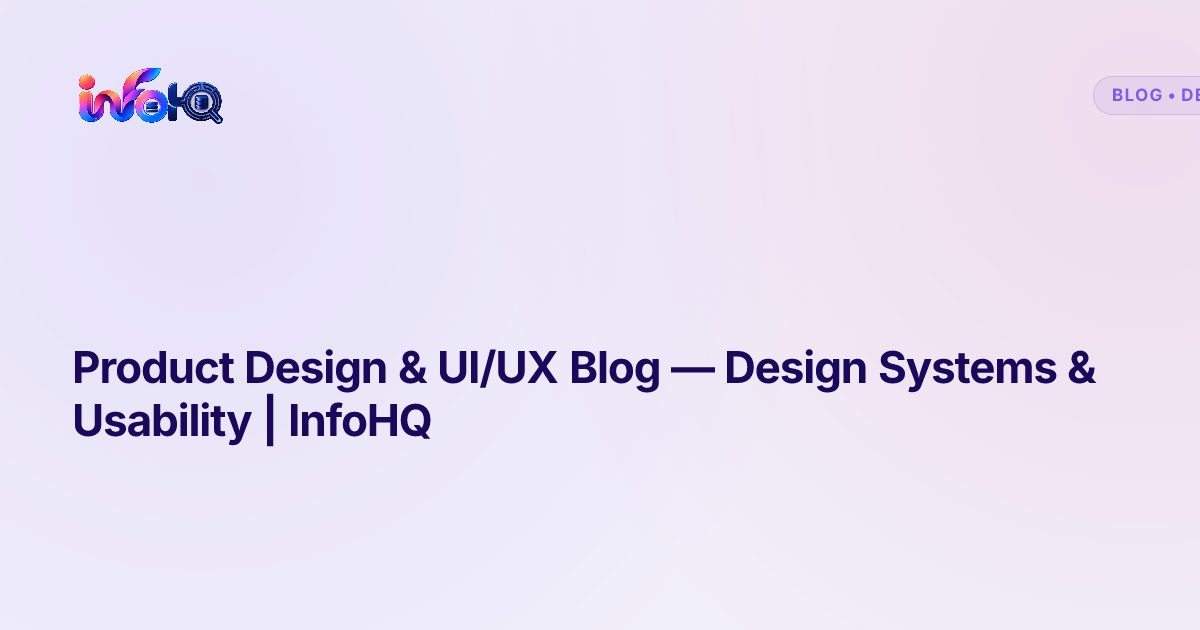
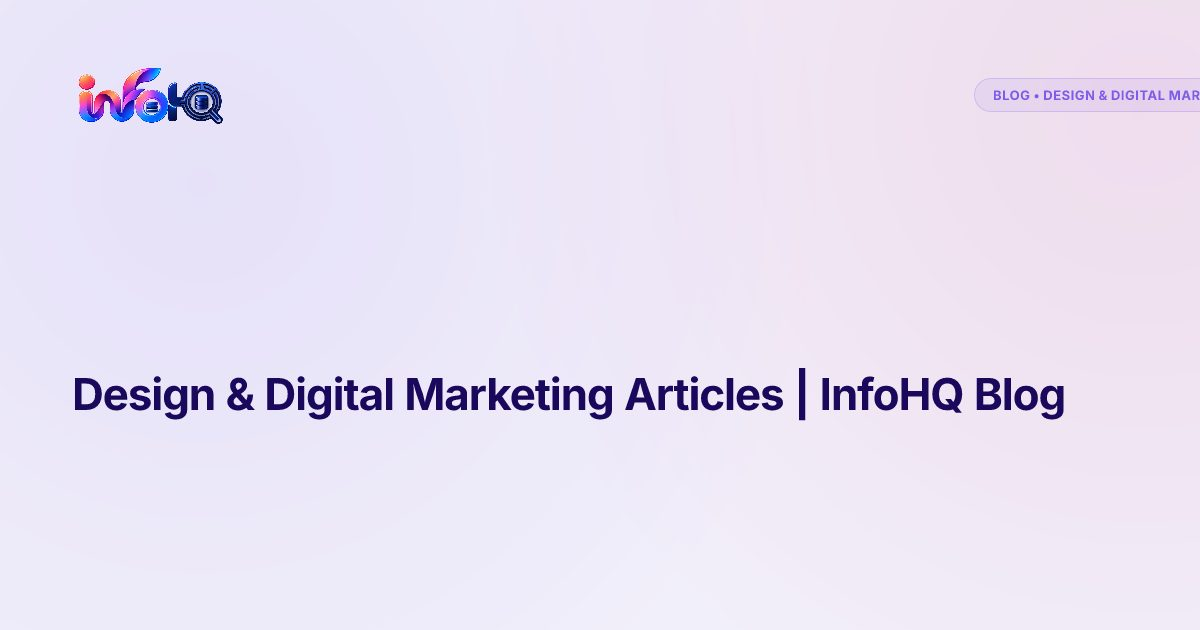
feat(blog): sync blog categories with services page
- Match 5 blog categories to Services page:
  * ai: AI & Software Engineering
  * web: Web & Mobile App Development
  * automation: Automation & System Integrations
  * cloud: Cloud, DevOps & Security
  * design: Design & Digital Marketing
- Update titles, descriptions, and taglines across blog utils, metadata, and pages
- Add auto-scaling font size in scripts/generate-og.mjs for long category badges
- Regenerate all 34 OG cards (all <= 33 KB)
- Retain unchanged slugs, paths, canonicals, and sitemap indexing

Changed region(s): [[0.0617, 0.5429, 0.925, 0.7238], [0.8325, 0.1206, 1.0, 0.181]]

diff --git a/src/data/blogCategories.ts b/src/data/blogCategories.ts
@@ -11,48 +11,48 @@ export interface BlogCategoryInfo {
 export const BLOG_CATEGORIES_DATA: Record<string, BlogCategoryInfo> = {
   ai: {
     slug: 'ai',
-    label: 'AI',
-    title: 'AI Engineering & Intelligent Systems Articles | InfoHQ Blog',
-    description: 'Deep-dive articles and production insights on AI architectures, RAG pipelines, autonomous agents, and LLMs from the InfoHQ engineering team in India.',
-    heroHeading: 'AI & Intelligent Systems',
-    heroSubtitle: 'Deep dives into RAG architectures, LLM orchestration, vector search, and production autonomous agents.',
-    emptyMessage: 'More AI articles coming soon. Our senior engineers are writing production teardowns from real deployments.'
+    label: 'AI & Software Engineering',
+    title: 'AI & Software Engineering Articles | InfoHQ Blog',
+    description: 'Practical writing on AI agents, RAG, LLM integrations and custom software, from the InfoHQ team.',
+    heroHeading: 'AI & Software Engineering',
+    heroSubtitle: 'Intelligent automation, autonomous LLM agents, and mission-critical business platforms.',
+    emptyMessage: 'More AI & Software Engineering articles coming soon. Our senior engineers are writing production teardowns from real deployments.'
   },
   web: {
     slug: 'web',
-    label: 'Web',
-    title: 'Web & Mobile App Development Articles | InfoHQ Blog',
-    description: 'Technical guides on high-performance web engineering, modern front-end architectures, sub-second latency, and scalable mobile apps by InfoHQ.',
-    heroHeading: 'Web & Mobile Engineering',
-    heroSubtitle: 'Modern front-end engineering, sub-second latency, offline-first mobile architecture, and scalable full-stack apps.',
-    emptyMessage: 'More Web articles coming soon. Our engineers are preparing code-first guides and performance teardowns.'
+    label: 'Web & Mobile App Development',
+    title: 'Web & Mobile App Development Insights | InfoHQ Blog',
+    description: 'Guides on websites and iOS and Android apps, including what they cost to build and how to plan them.',
+    heroHeading: 'Web & Mobile App Development',
+    heroSubtitle: 'Performant web platforms and native iOS/Android mobile applications built to launch.',
+    emptyMessage: 'More Web & Mobile App Development articles coming soon. Our engineers are preparing code-first guides and performance teardowns.'
   },
   automation: {
     slug: 'automation',
-    label: 'Automation',
-    title: 'Business Automation & Workflow Engineering | InfoHQ Blog',
-    description: 'Practical teardowns on enterprise workflow automation, API orchestration, event-driven pipelines, and operational efficiency from InfoHQ.',
-    heroHeading: 'Business Automation',
-    heroSubtitle: 'Event-driven workflow engines, custom API connectors, ERP synchronization, and enterprise task automation.',
-    emptyMessage: 'More Automation articles coming soon. Case studies and integration blueprints will be published shortly.'
+    label: 'Automation & System Integrations',
+    title: 'Automation & System Integrations Guides | InfoHQ Blog',
+    description: 'Practical guides on workflow automation, system integrations and WhatsApp Business automation for businesses.',
+    heroHeading: 'Automation & System Integrations',
+    heroSubtitle: 'Automate manual bottlenecks, sync your enterprise tools, and orchestrate data flows.',
+    emptyMessage: 'More Automation & System Integrations articles coming soon. Case studies and integration blueprints will be published shortly.'
   },
   cloud: {
     slug: 'cloud',
-    label: 'Cloud',
-    title: 'Cloud Architecture & DevOps Insights | InfoHQ Blog',
-    description: 'Expert articles on resilient cloud infrastructure, zero-downtime CI/CD pipelines, containerization, and Cloudflare serverless engineering by InfoHQ.',
-    heroHeading: 'Cloud & DevOps Architecture',
-    heroSubtitle: 'Zero-downtime deployment pipelines, container orchestration, edge computing, and Cloudflare serverless workflows.',
-    emptyMessage: 'More Cloud articles coming soon. Architectural teardowns and cloud optimization guides are currently in review.'
+    label: 'Cloud, DevOps & Security',
+    title: 'Cloud, DevOps & Security Guides | InfoHQ Blog',
+    description: 'Guides on cloud infrastructure, DevOps, cybersecurity and website maintenance, from the InfoHQ team.',
+    heroHeading: 'Cloud, DevOps & Security',
+    heroSubtitle: 'Resilient cloud infrastructure, continuous deployment, and proactive security auditing.',
+    emptyMessage: 'More Cloud, DevOps & Security articles coming soon. Architectural teardowns and cloud optimization guides are currently in review.'
   },
   design: {
     slug: 'design',
-    label: 'Design',
-    title: 'UI/UX & Product Design Architecture | InfoHQ Blog',
-    description: 'Strategic insights on design systems, user experience architecture, conversion-focused interfaces, and digital brand design from InfoHQ.',
-    heroHeading: 'UI/UX & Product Design',
-    heroSubtitle: 'Design systems, conversion-driven UX architecture, interactive micro-animations, and responsive product design.',
-    emptyMessage: 'More Design articles coming soon. Deep dives into design tokens, accessibility, and UI engineering are on the way.'
+    label: 'Design & Digital Marketing',
+    title: 'Design & Digital Marketing Articles | InfoHQ Blog',
+    description: 'Guides on UI/UX design, brand identity, social media management and digital marketing.',
+    heroHeading: 'Design & Digital Marketing',
+    heroSubtitle: 'High-fidelity Figma prototypes, modern brand identity systems, and high-intent growth.',
+    emptyMessage: 'More Design & Digital Marketing articles coming soon. Deep dives into design tokens, accessibility, and UI engineering are on the way.'
   }
 };
 

diff --git a/src/utils/blog.ts b/src/utils/blog.ts
@@ -14,42 +14,42 @@ export interface CategoryInfo {
 export const BLOG_CATEGORIES: Record<BlogCategory, CategoryInfo> = {
   ai: {
     id: 'ai',
-    name: 'AI',
-    tagline: 'Architectures, RAG systems, and practical LLM engineering for production applications.',
-    title: 'AI & Machine Learning Blog — Technical Notes & Guides | InfoHQ',
-    description: 'In-depth technical guides on RAG pipelines, LLM integration, vector databases, and real-world AI engineering from the InfoHQ team.',
+    name: 'AI & Software Engineering',
+    tagline: 'Intelligent automation, autonomous LLM agents, and mission-critical business platforms.',
+    title: 'AI & Software Engineering Articles | InfoHQ Blog',
+    description: 'Practical writing on AI agents, RAG, LLM integrations and custom software, from the InfoHQ team.',
     icon: 'Brain'
   },
   web: {
     id: 'web',
-    name: 'Web',
-    tagline: 'Modern frontend, performance optimization, and scalable web architecture.',
-    title: 'Web Engineering Blog — Architecture, Performance & Standards | InfoHQ',
-    description: 'Practical guides on web performance, zero layout shift, modern frameworks, and responsive frontend architecture.',
+    name: 'Web & Mobile App Development',
+    tagline: 'Performant web platforms and native iOS/Android mobile applications built to launch.',
+    title: 'Web & Mobile App Development Insights | InfoHQ Blog',
+    description: 'Guides on websites and iOS and Android apps, including what they cost to build and how to plan them.',
     icon: 'Globe'
   },
   automation: {
     id: 'automation',
-    name: 'Automation',
-    tagline: 'Workflow automation, lead management, and connecting business tools.',
-    title: 'Business Automation Blog — Workflows, Integrations & Systems | InfoHQ',
-    description: 'Practical guides on automating business workflows, lead routing, n8n, API integrations, and internal tooling.',
+    name: 'Automation & System Integrations',
+    tagline: 'Automate manual bottlenecks, sync your enterprise tools, and orchestrate data flows.',
+    title: 'Automation & System Integrations Guides | InfoHQ Blog',
+    description: 'Practical guides on workflow automation, system integrations and WhatsApp Business automation for businesses.',
     icon: 'Workflow'
   },
   cloud: {
     id: 'cloud',
-    name: 'Cloud',
-    tagline: 'Cloud infrastructure, serverless deployments, CI/CD, and DevOps practices.',
-    title: 'Cloud & DevOps Blog — Infrastructure, CI/CD & Deployments | InfoHQ',
-    description: 'Technical notes on Cloudflare edge delivery, AWS, containerization, zero-downtime deployments, and cloud architecture.',
+    name: 'Cloud, DevOps & Security',
+    tagline: 'Resilient cloud infrastructure, continuous deployment, and proactive security auditing.',
+    title: 'Cloud, DevOps & Security Guides | InfoHQ Blog',
+    description: 'Guides on cloud infrastructure, DevOps, cybersecurity and website maintenance, from the InfoHQ team.',
     icon: 'Cloud'
   },
   design: {
     id: 'design',
-    name: 'Design',
-    tagline: 'Product design, UI/UX systems, and practical usability for digital products.',
-    title: 'Product Design & UI/UX Blog — Design Systems & Usability | InfoHQ',
-    description: 'Insights on design systems, accessible UI engineering, user research, and crafting functional product interfaces.',
+    name: 'Design & Digital Marketing',
+    tagline: 'High-fidelity Figma prototypes, modern brand identity systems, and high-intent growth.',
+    title: 'Design & Digital Marketing Articles | InfoHQ Blog',
+    description: 'Guides on UI/UX design, brand identity, social media management and digital marketing.',
     icon: 'PenTool'
   }
 };
